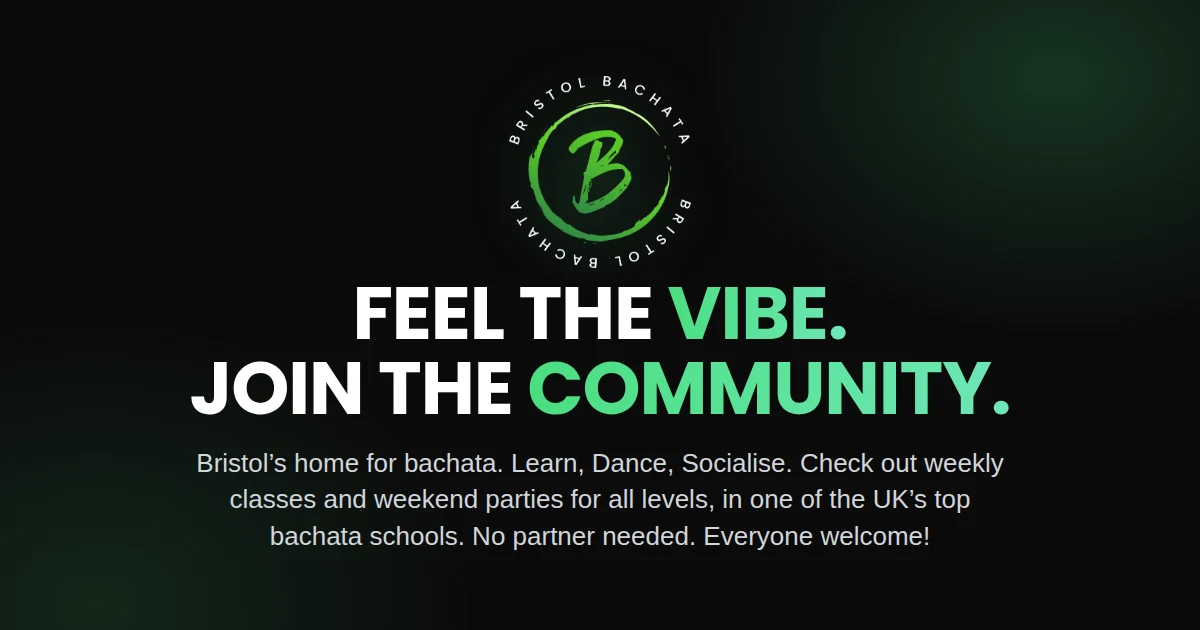
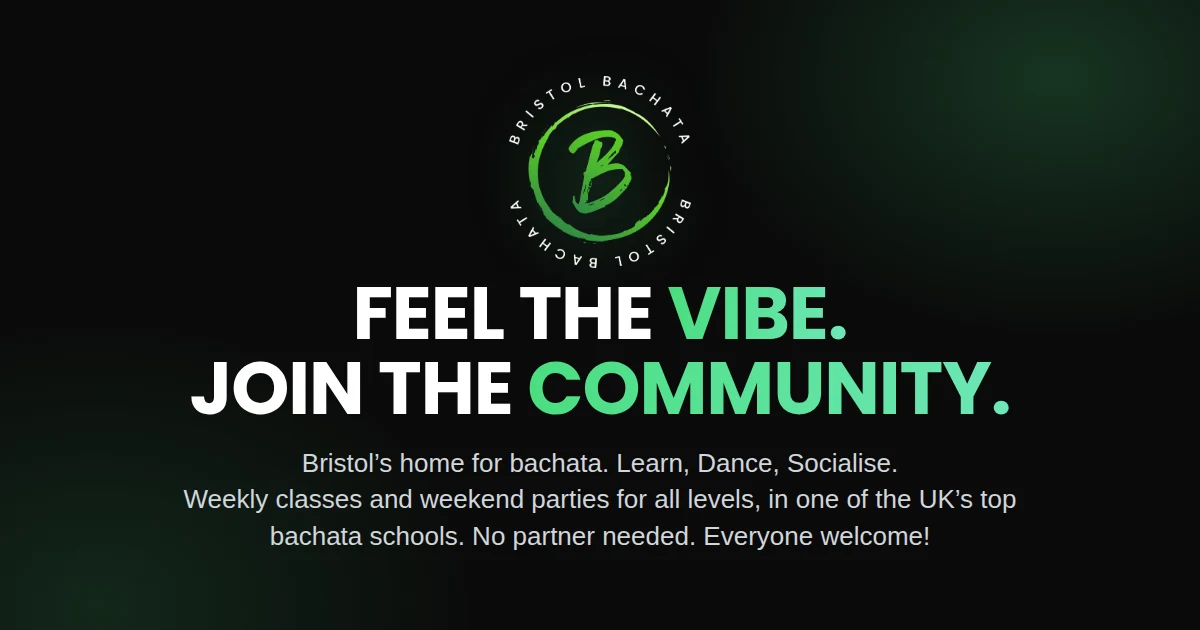
og preview and header tweeks

Changed region(s): [[0.1542, 0.7238, 0.8633, 0.8143]]

diff --git a/index.html b/index.html
@@ -297,7 +297,7 @@
                     JOIN THE <span class="text-transparent bg-clip-text bg-gradient-to-r from-bbGreen to-emerald-300">COMMUNITY.</span>
                 </h1>
                 <p class="text-lg md:text-2xl text-gray-300 mb-10 max-w-3xl mx-auto font-light">
-                    Bristol’s home for bachata. Learn, Dance, Socialise. Check out weekly classes and weekend parties for all levels, in one of the UK’s top bachata schools. No partner needed. Everyone welcome!
+                    Bristol’s home for bachata. Learn, Dance, Socialise. Weekly classes and weekend parties for all levels, in one of the UK’s top bachata schools. No partner needed. Everyone welcome!
                 </p>
                 <div class="flex flex-col sm:flex-row justify-center gap-4">
                     <a href="https://bristolbachata.sumupstore.com" class="bg-bbGreen text-black hover:bg-bbGreenHover px-8 py-4 rounded-full font-heading font-bold text-lg transition-all transform hover:-translate-y-1 shadow-[0_10px_20px_rgba(74,222,128,0.3)]">Book Classes &amp; Tickets</a>

diff --git a/README.md b/README.md
@@ -8,7 +8,7 @@ One-page static site: `index.html` plus a few small files.
 - `_headers` – cache rules. `robots.txt`, `sitemap.xml` – SEO.
 - Images, `hero-video.mp4`, `logo.jpg` – loaded as referenced in `index.html`.
 - `favicon.ico`, `icon-192.png`, `apple-touch-icon.png` – site icons made from the logo.
-- `og-preview.webp` (and `.jpg` fallback) – 1200×630 social share preview.
+- `og-preview.webp` (and `og-preview.jpg` fallback) – 1200×630 social share preview.
 
 ## Changing the design
 1. Edit the HTML, then rebuild Tailwind with your usual command plus `--minify`.
